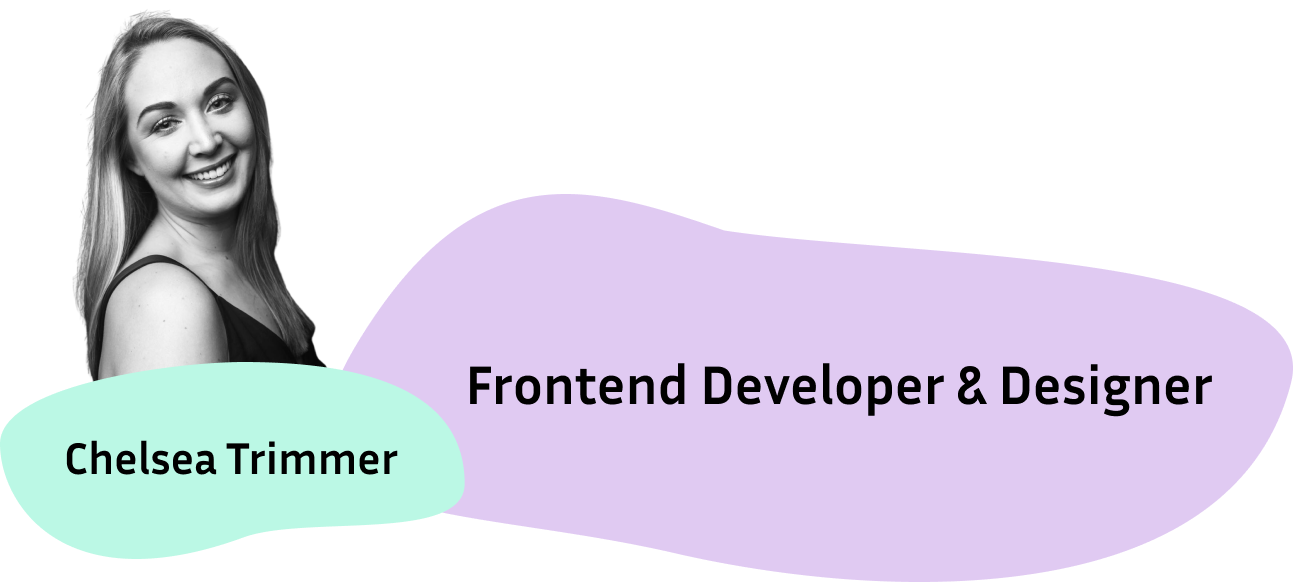
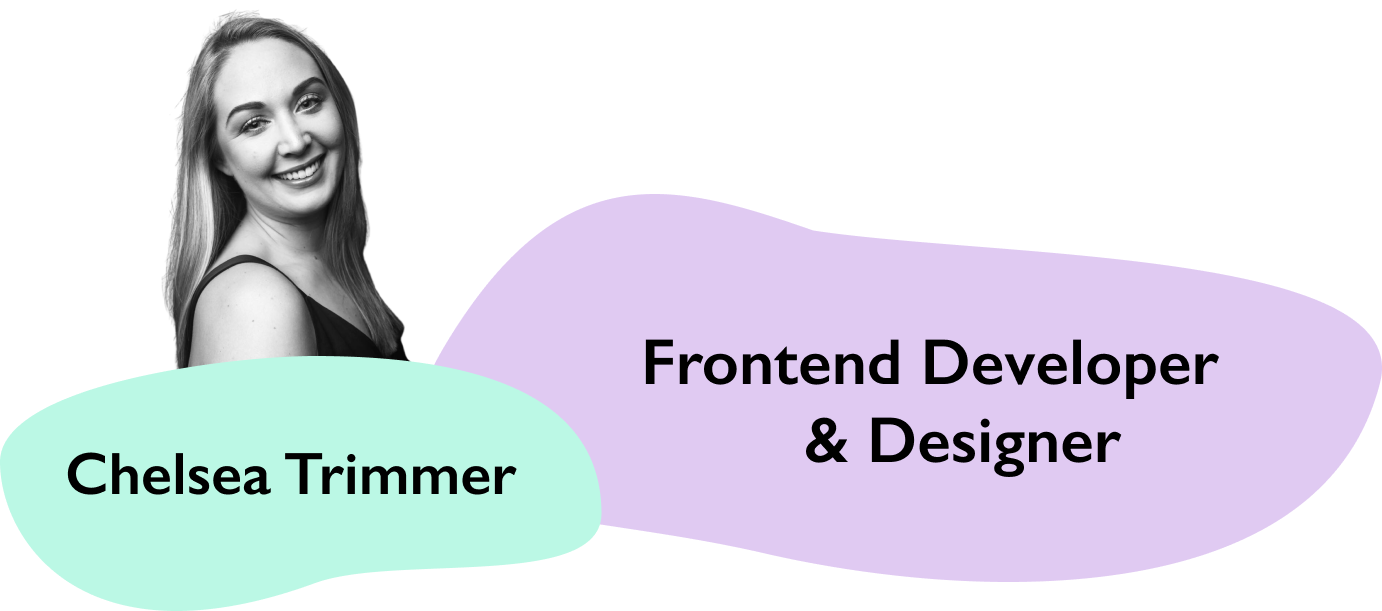
Changed global fonts in images and text

diff --git a/src/pages/About.jsx b/src/pages/About.jsx
@@ -1,22 +1,26 @@
 import  Phone  from "../assets/iphone.svg"
 import Closing from "../assets/closing.mp4"
+import Hi from "../assets/hi.png"
+
+
 const About = () => {
 
     return (
       <main className = " bg-black w-full min-h-screen ">
         <section className=" about_container flex w-full h-4/5 justify-center align-center self-center flex-wrap lg:flex-nowrap pt-4 lg:pt-8 ">
-          <section className="about flex flex-col w-full  lg:w-2/4 justify-start items-center mx-61 text-black text-xl bg-main2 rounded-3xl mx-3" >
-            <h1 className="text-4xl pt-6 text-center font-bold">About Me</h1>
-            <div className ="md:flex-col pt-6 px-4 md:px-4 pb-9 w-full">
-              <div className="md:flex items-center w-full md:space-x-5">
-                <p className=" bg-white rounded-full md:rounded-3xl p-8 md:p-4 ">Hi! My name is Chelsea and I am currently wrapping up my studies in frontend development at Hyper Island in Stockholm. 
+          <section className="about flex flex-col w-full  lg:w-2/4 justify-start items-center mx-61 text-black text-xl bg-main2 rounded-3xl mx-3 " >
+            <h1 className="text-4xl pt-6 text-center font-semibold">About Me</h1>
+            <img className=" w-72 md:w-44 md:absolute md:top-52 md:left-12 lg:top-56 lg:left-24 pt-5 md:pt-0" src={Hi} />
+            <div className ="md:flex-col pt-6 px-4 md:px-4 pb-7 w-full space-y-7 md:space-y-0 font-body">
+              <div className="md:flex items-center w-full md:space-x-5 space-y-7 md:space-y-0 ">
+                <p className=" bg-white md:bg-main1 rounded-3xl p-3 md:p-4 md:pt-60 ">Hi! My name is Chelsea and I am currently wrapping up my studies in frontend development at Hyper Island in Stockholm. 
                 </p>
-                <p className="bg-main1 rounded-3xl p-3 md:p-8">Research and design are strong skills that I have developed through my experience with video production, marine science, and content creation over the years. <br/>
+                <p className="bg-main1 md:bg-white rounded-3xl p-3 md:p-8">Research and design are strong skills that I have developed through my experience with video production, marine science, and content creation over the years. <br/>
                 My time at Hyper Island has allowed me to work on projects with a UX/UI focus and I am happiest when I get the chance to combine those areas with coding.</p>
               </div>
-              <div className=" px-2 md:flex items-center w-full md:pt-4 md:space-x-5">
+              <div className=" md:flex items-center w-full md:pt-4 md:space-x-5 space-y-7 md:space-y-0">
                 <p className=" bg-white rounded-3xl p-3 md:p-6 md:w-1/2">I am a social, positive, and curious person who tends to go the extra mile for the people in my life and for the work that I do. I thrive on new experiences and rarely say no when interesting opportunities come my way. </p>
-                <p className="bg-main1 rounded-3xl p-8 md:w-1/2 ">The film on this page was one of them. I promise I am much friendlier IRL! </p>
+                <p className="bg-main1 rounded-3xl p-3 md:w-1/2 ">The film on this page was one of them. I promise I am much friendlier IRL! </p>
               </div>
 
               

diff --git a/tailwind.config.js b/tailwind.config.js
@@ -14,6 +14,9 @@ module.exports = {
       },
       fill: ['hover'],
     },
+    fontFamily: {
+      'body': ['"Gill Sans"', 'ui-sans-serif, sans-serif'],
+    },
   },
   plugins: [],
 };
